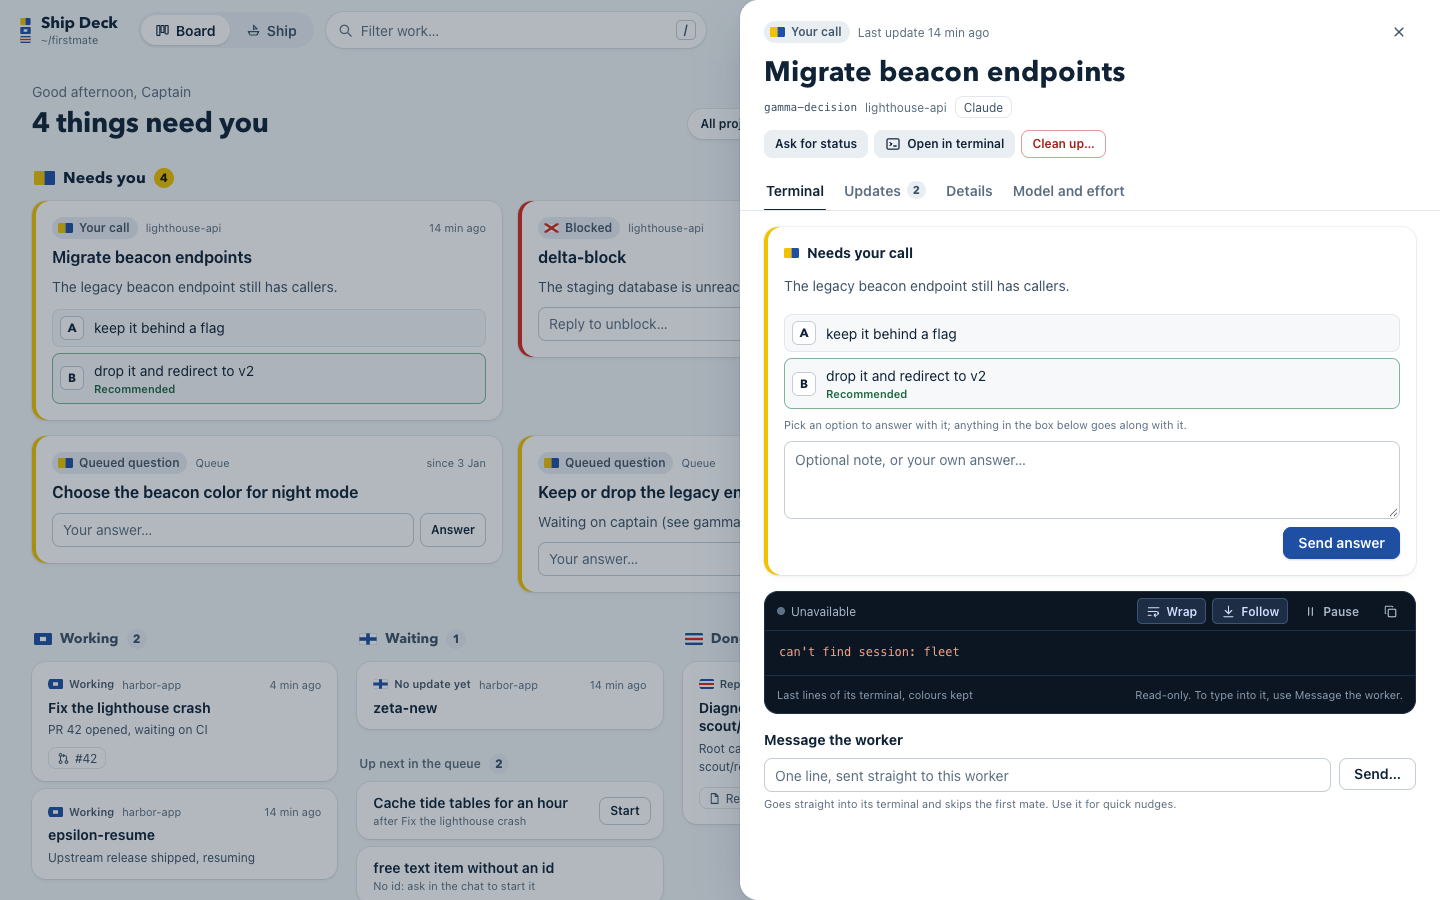
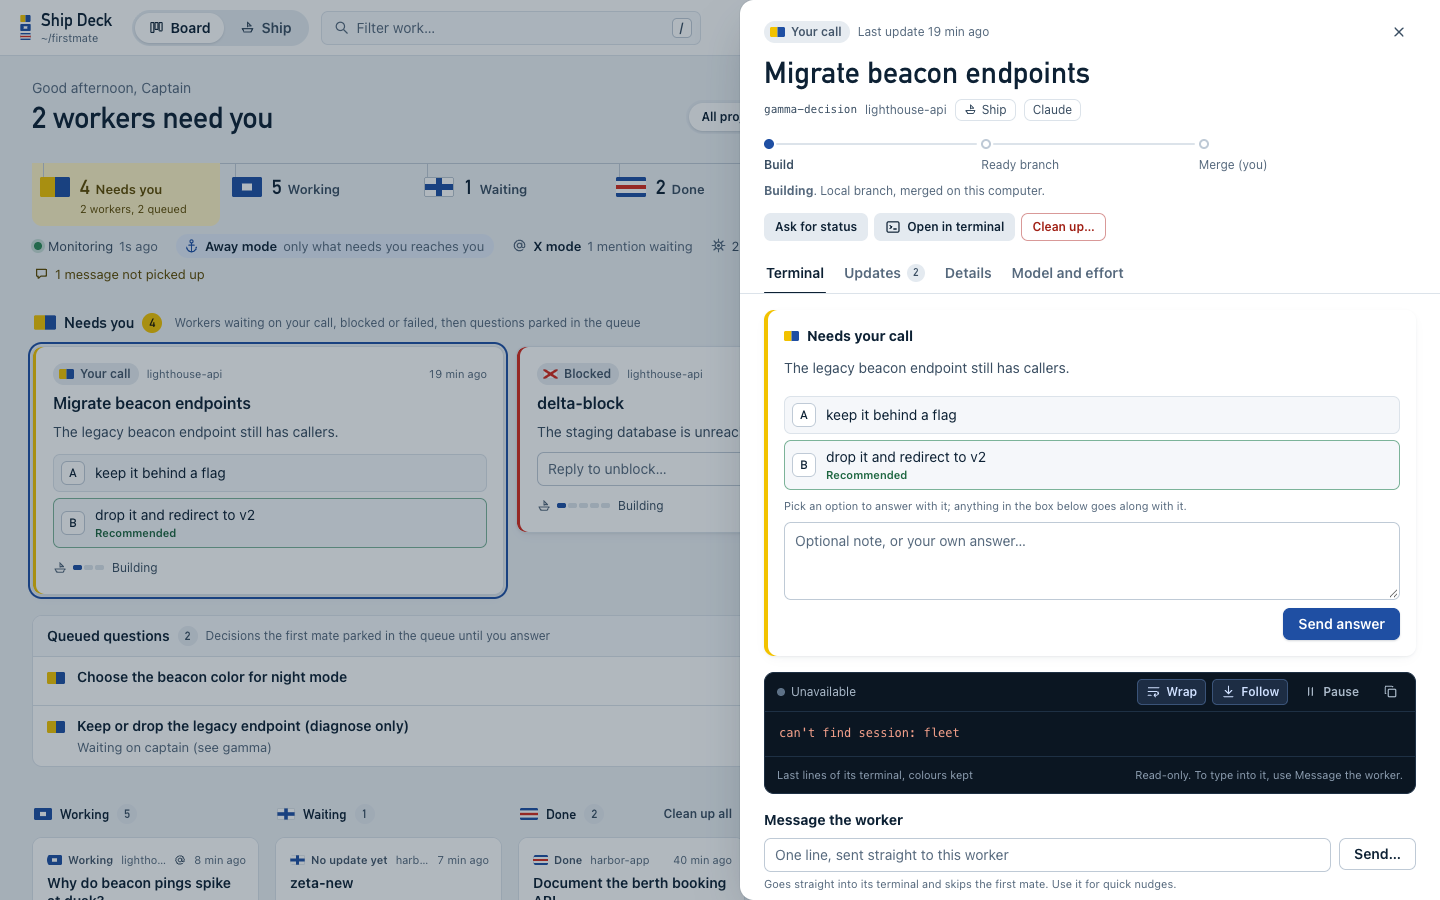
docs: reference and screenshots for the revamped deck
REFERENCE covers the new board sections, delivery tracks, conditions, theme
and what is read for them. Screenshots are refreshed from the fabricated
sample fleet; docs/revamp/ holds before/after pairs.

diff --git a/docs/REFERENCE.md b/docs/REFERENCE.md
@@ -123,12 +123,13 @@ replace the path with your clone, save it as
 
 ## The views
 
-- **Header**: the view switch, the filter, the monitoring dot (its words
-  show only when monitoring is late or off), **New job** (the job form), the
-  chat button (hides or shows the side panel on wide screens, remembered; jumps
-  to it on narrow ones; a dot marks unread replies) and **More**: Ship's
-  Library, Settings, Share your deck, alerts and keyboard shortcuts, with the
-  last update time.
+- **Header**: the view switch, the filter, a monitoring warning (only while
+  monitoring is late or off), **New job** (the job form, which also says the
+  chosen project's delivery path and who merges), the chat button (hides or
+  shows the side panel on wide screens, remembered; jumps to it on narrow ones;
+  a dot marks unread replies) and **More**: Ship's Library, Settings, Share
+  your deck, alerts, keyboard shortcuts and **Theme** (system, light or dark,
+  remembered per browser), with the last update time.
 - **Settings > You** (`/settings.html`): what Ship Deck calls you, "Captain"
   unless you change it (free text up to 40 characters, with Captain, Boss,
   your first name and No title as suggestions; empty means no title). The
@@ -143,20 +144,51 @@ replace the path with your clone, save it as
 
   Below it, on macOS only, **Stay awake with the lid closed**: see
   [Stay awake with the lid closed](#stay-awake-with-the-lid-closed-macos).
-- **Board** (default): a greeting (with your form of address) and how many things need you ("All clear"
-  when none), then **Needs you** (flag K) across the top: workers waiting on
-  your call, blocked or failed, then queued questions, as full cards that
-  answer in place with lettered option buttons or a one-line reply (the same
-  messages and confirm step as the drawer). Below it, quieter and compact:
-  **Working** (P); **Waiting** (X): paused workers and workers with no update
-  yet, then **Quiet for a while** (no activity for `--stale-days`, default 7;
-  done workers are never quiet) and **Up next in the queue** with Start;
-  **Done** (C): finished workers with Read report and Clean up, and "Clean up
-  all" in the column head. Project chips filter the board. Second mates sit
-  under the columns. Cards show the status, project and age, the title, the
-  latest note and the pull request; the id, tool, model and effort are in the
-  drawer. A card that changes column settles in once: hoisted into Needs you,
-  or landing in Done with a "Finished" toast.
+- **Board** (default): a greeting (with your form of address) and a headline
+  ("2 workers need you", "3 queued questions for you", "All clear"), then:
+  - **The hoist**: one flag per part of the board on a single halyard, with its
+    count (Needs you, with how many are workers and how many queued questions;
+    Working; Waiting, with how many are quiet; Done; Up next). Each jumps to
+    its section. It hides while the fleet is empty.
+  - **Conditions**: monitoring (and when it last checked), **Away mode** (on
+    while `state/.afk` exists: the first mate keeps supervising and only brings
+    you what needs you; off says how to turn it on), **X mode** when it is on
+    (with mentions waiting), the second mates (running of registered) and
+    messages the first mate has not picked up yet. While the chat is put away,
+    the first mate's own state leads the line.
+  - **Needs you** (flag K): workers waiting on your call, blocked or failed as
+    full cards that answer in place with lettered option buttons or a one-line
+    reply (the same messages and confirm step as the drawer), then **Queued
+    questions** as one compact list (five, then "Show N more"): **Answer** opens
+    the options or a reply box in the row, the title opens the drawer.
+  - Four lanes of compact rows: **Working** (P); **Waiting** (X): paused
+    workers and workers with no update yet, then **Quiet for a while** (no
+    activity for `--stale-days`, default 7; done workers are never quiet;
+    folded until opened); **Done** (C): finished workers with Read report and
+    Clean up, and "Clean up all" in the lane head; **Up next**: the queue with
+    Start, and "Starts after …" for items waiting on other work. Long lanes
+    show their first six or eight with "Show N more" (remembered per browser).
+  - Every worker shows its **delivery track**: a ship or scout mark, one
+    segment per step of its path and the current step in words. The steps
+    follow the delivery mode in `state/<id>.meta`: no-mistakes is Build,
+    Validate, Pull request, Checks, Merge; direct-PR is Build, Pull request,
+    Merge; local-only is Build, Ready branch, Merge; a scout is Investigate,
+    Report. How far it got is read from the worker's own record and status
+    notes only (its PR, "checks green/failing/running", the review pipeline,
+    "merged"); a no-mistakes worker that is done has green checks by
+    firstmate's contract. Merge waits on you unless the project runs with
+    `yolo=on`, then it says the first mate merges. The pull request chip
+    carries a dot for the last reported checks.
+  - **Second mates** (registry and live records: lane, projects, latest note)
+    and **Recently finished** (the queue's Done list, with dates) sit below.
+  Project chips filter the board (a queue tag `org/repo` counts as `repo`).
+  Titles and summaries show links as words (a Linear link as its key, a pull
+  request as `repo#N`). Cards show the status, project and age, the title, the
+  latest note, the track and the pull request; the id, tool, model and effort
+  are in the drawer. A card that changes column settles in once: hoisted into
+  Needs you, or landing in Done with a "Finished" toast. Until the first
+  answer from the server the board shows placeholders; an empty fleet says
+  what Firstmate and Ship Deck do, with Start a new job and Ask the first mate.
 - **Ship**: the same fleet as a nautical chart. The bridge shows you (Ashore
   when `state/.afk` exists), the first mate with what it is doing, and the
   monitoring lamp. One zone per project with a flag tally (the legend says
@@ -178,11 +210,13 @@ replace the path with your clone, save it as
 - **Worker drawer**: click a card or berth; `#task=<id>` deep-links. The
   status and last update, the title, id, project, pull request and tool, then
   Ask for status, Merge PR, **Open in terminal** (the resume command) and
-  Clean up. A worker that needs you shows its question and answer box on top.
+  Clean up, with its delivery track in words under the facts (each step, and
+  who merges). A worker that needs you shows its question and answer box on top.
   Tabs: **Terminal** (the latest update, the live terminal with Wrap, Follow,
   Pause and Copy, and Message the worker), **Updates** (every status line,
   one timestamp format), **Details** (brief, data files, facts in words,
-  messages about it) and **Model and effort**.
+  messages about it, its delivery path, who merges and whether it came from
+  X) and **Model and effort**.
 - **Queue item drawer**: its question and answer box (queued questions), or
   Start this, its details in words and its notes.
 - **Ship's Library** (**More** menu): the first mate's permanent context files,
@@ -196,8 +230,9 @@ replace the path with your clone, save it as
   closes or goes back. In the chat Enter sends, Shift+Enter adds a line,
   Cmd+V pastes a screenshot.
 
-Follows the OS light/dark theme and respects reduced motion (every
-animation and transition off).
+Follows the OS light/dark theme unless More > Theme picks one (`public/theme.js`
+applies it before the first paint, on Settings too) and respects reduced
+motion (every animation and transition off).
 
 ## Words on screen
 
@@ -221,6 +256,11 @@ names, so nothing changes for the first mate:
 | Tool | harness (claude, codex, ...) |
 | Workspace (details only) | worktree |
 | Monitoring | the watcher heartbeat (`state/.last-watcher-beat`) |
+| Delivery track, its steps | the delivery mode (`mode=` no-mistakes, direct-PR, local-only) or a scout's report |
+| Merge (you) / Merge (first mate) | `yolo=off` / `yolo=on` in the worker's meta |
+| Away mode | away mode (`state/.afk`) |
+| X mode, From X | X mode (`state/x-watch.check.sh`, `state/x-inbox/`), `x_request=` |
+| Recently finished | the backlog's Done section |
 | Terminal | the worker's tmux window |
 
 Message kinds read as: Message (`chat`), Your decision (`decision`,
@@ -255,7 +295,7 @@ and a word, chosen for its meaning at sea (`public/board.js`):
 
 The palette ("Chart room": chart-water canvas, white surfaces, deep-water ink,
 signal blue for actions, signal yellow only for "needs you"; a navy night watch
-in dark mode) passes WCAG AA for every text pair in both themes,
+in dark mode; DIN for headings and counts) passes WCAG AA for every text pair in both themes,
 checked by `test/contrast.test.js` against the tokens in `public/style.css`.
 
 ## What you can do
@@ -728,6 +768,9 @@ installer step (default on, `n`, `--no-keep-awake`, re-runs, Linux).
 flag and word) and the Board grouping on the fixture fleet: columns, sort
 order, quiet workers, queued questions and next items, project and search
 filters, and the card summary.
+`test/delivery.test.js` covers the delivery tracks (every mode and a scout, checks
+green, running and failing, merged, failed, yolo, a PR link found in a note), tidy
+titles, and the yolo, X-linked and X mode facts in the snapshot.
 `test/contrast.test.js` checks every text colour pair the UI uses for WCAG AA
 (4.5:1) in the light and dark tokens of `public/style.css`.
 `test/snapshot.test.js` builds a snapshot from a temp copy of the fixture home,
@@ -753,10 +796,11 @@ All paths are relative to the fleet home. Missing files are fine.
 
 | Source | Used for |
 | --- | --- |
-| `state/<id>.meta` | One crew member per file: `project`, `kind` (ship/scout/secondmate), `mode`, `harness`, `model`, `effort`, `window`, `worktree`, `pr`, `pr_head` |
+| `state/<id>.meta` | One crew member per file: `project`, `kind` (ship/scout/secondmate), `mode`, `yolo`, `harness`, `model`, `effort`, `window`, `worktree`, `pr`, `pr_head`, and whether `x_request` is set |
 | `state/<id>.status` | Last line is the displayed state (`resolved` shows as working); the last 5 lines feed the detail drawer. An optional `YYYY-MM-DD HH:MM` prefix and `[key=...]` are parsed; stray non-status lines are skipped. Only the last 64 KB is read. |
 | `state/<id>.turn-ended` and file mtimes | "Last activity" and "turn ended" times |
-| `state/.afk` | Present means the captain is ashore (shown on the Ship view's bridge) |
+| `state/.afk` | Present means away mode is on: the Board's conditions line, and Ashore on the Ship view's bridge |
+| `state/x-watch.check.sh`, `state/x-inbox/` | Existence only: X mode is on; the number of files waiting in the inbox is the mentions waiting |
 | `state/.last-watcher-beat` mtime | Monitoring lamp and the header's monitoring dot: green under 2 min, amber ("late") otherwise |
 | `data/backlog.md` | Loose parse of Captain's Call / In flight / Queued / Done; unknown sections are tolerated. Queued items become "Up next in the queue" rows (and crates in the Ship view's hold). Captain's Call = every open item in the Captain's Call section or tagged `(kind: captain)` / `(hold-kind: captain)` in any open section (the real file keeps them in Queued); options in its `(hold: ...)` become answer buttons. |
 | `data/projects.md` | Project names (Board filter chips, Ship view zones), delivery modes and descriptions |
@@ -798,6 +842,6 @@ bin/start.sh       Start the server in the background unless it already answers
 bin/install.sh     Per-person install: prerequisites, firstmate home, ~/.ship-deck/app, launcher, keep-awake (macOS), opt-in autostart
 docs/TEAMMATE-SETUP.md  Step-by-step setup guide
 docs/REFERENCE.md  This reference
-public/            index.html, settings.html/.js (Settings > You), share.html/.js (Settings > Sharing), style.css, app.js, board.js (flags + Board grouping), markdown.js, labels.js, ansi.js (no build step)
+public/            index.html, settings.html/.js (Settings > You), share.html/.js (Settings > Sharing), style.css, app.js, board.js (flags, Board grouping, delivery tracks), theme.js, markdown.js, labels.js, ansi.js (no build step)
 test/              node:test suites and fabricated fixtures
 ```
